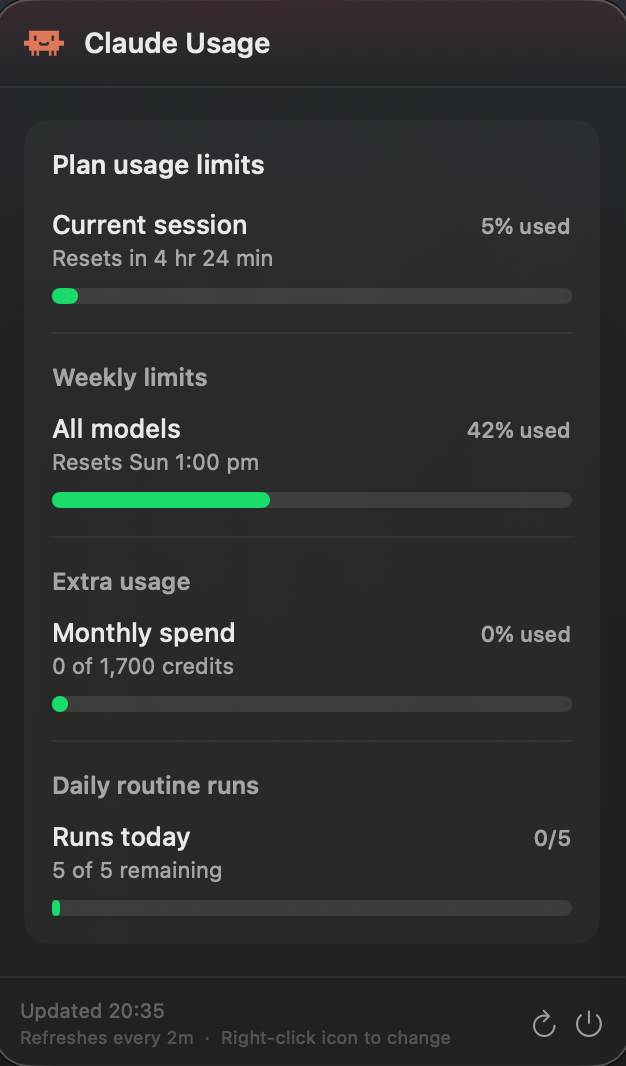
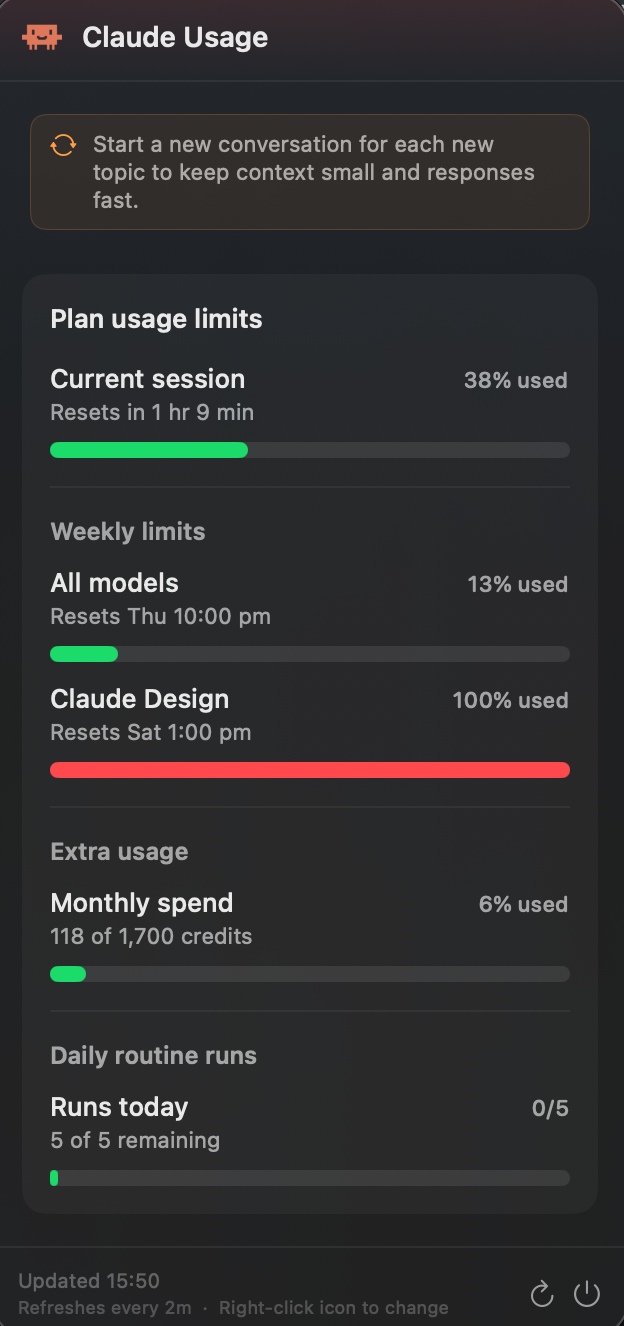
feat: add Claude Design weekly usage bar (v2.2.0)
- Parse seven_day_omelette API bucket as Claude Design usage
- Add claudeDesignPercentage + claudeDesignResetDate to UsageData
- Show Claude Design bar in Weekly limits section when allocation > 0
- Update README and screenshot for v2.2.0

diff --git a/ClaudeUsageMonitor/Services/ClaudeAPIService.swift b/ClaudeUsageMonitor/Services/ClaudeAPIService.swift
@@ -208,15 +208,21 @@ private enum APIResponseParser {
                                   ?? (body["sonnet_only"]           as? [String: Any])
                                   ?? (body["seven_day_sonnet_only"] as? [String: Any])
 
+        // Claude Design — obfuscated as "omelette" in the API
+        let claudeDesign: [String: Any]? = (body["seven_day_omelette"]  as? [String: Any])
+                                        ?? (body["omelette_promotional"] as? [String: Any])
+
         let tierRaw = body["rate_limit_tier"] as? String ?? ""
 
-        let sessionPct  = utilization(fiveHour)
-        let weeklyPct   = utilization(sevenDay)
-        let sonnetPct   = utilization(sonnet)
+        let sessionPct        = utilization(fiveHour)
+        let weeklyPct         = utilization(sevenDay)
+        let sonnetPct         = utilization(sonnet)
+        let claudeDesignPct   = utilization(claudeDesign)
 
-        let resetDate       = isoDate(fiveHour?["resets_at"])
-        let weeklyResetDate = isoDate(sevenDay?["resets_at"])
-        let sonnetResetDate = isoDate(sonnet?["resets_at"])
+        let resetDate              = isoDate(fiveHour?["resets_at"])
+        let weeklyResetDate        = isoDate(sevenDay?["resets_at"])
+        let sonnetResetDate        = isoDate(sonnet?["resets_at"])
+        let claudeDesignResetDate  = isoDate(claudeDesign?["resets_at"])
 
         // Synthesise used/limit from percentage for backward-compat with UI (shows "42/100")
         let sessionUsed  = Int((sessionPct * 100).rounded())
@@ -244,8 +250,10 @@ private enum APIResponseParser {
         data.sessionLimit     = sessionLimit
         data.weeklyResetDate  = weeklyResetDate
         data.weeklyResetText  = weeklyResetText
-        data.sonnetPercentage = sonnetPct
-        data.sonnetResetDate  = sonnetResetDate
+        data.sonnetPercentage        = sonnetPct
+        data.sonnetResetDate         = sonnetResetDate
+        data.claudeDesignPercentage  = claudeDesignPct
+        data.claudeDesignResetDate   = claudeDesignResetDate
 
         // Extra usage — only when is_enabled == true
         if extraUsage?["is_enabled"] as? Bool == true ||

diff --git a/ClaudeUsageMonitor/Models/UsageData.swift b/ClaudeUsageMonitor/Models/UsageData.swift
@@ -13,6 +13,8 @@ struct UsageData {
     var extraUsageLimit: Double = 0  // € monthly spend limit for extra usage
     var sonnetPercentage: Double = 0 // seven_day_sonnet utilization (0–1), Max users only
     var sonnetResetDate: Date? = nil // seven_day_sonnet.resets_at
+    var claudeDesignPercentage: Double = 0 // seven_day_claude_design utilization (0–1)
+    var claudeDesignResetDate: Date? = nil // seven_day_claude_design.resets_at
     var routineRunsUsed:  Int = 0   // daily routine runs used (/v1/code/routines/run-budget)
     var routineRunsLimit: Int = 0   // daily routine runs limit (plan-specific: Pro=5, Max=15, Team/Enterprise=25)
     var rateLimitStatus: String
@@ -48,6 +50,8 @@ struct UsageData {
 
     var hasSonnetData: Bool { sonnetPercentage > 0 }
 
+    var hasClaudeDesignData: Bool { claudeDesignPercentage > 0 }
+
     var hasRoutineData: Bool { routineRunsLimit > 0 }
 
     var routineRunsPercentage: Double {
@@ -59,6 +63,13 @@ struct UsageData {
 
     var sonnetResetLabel: String? {
         guard let date = sonnetResetDate else { return nil }
+        let f = DateFormatter()
+        f.dateFormat = "EEE h:mm a"
+        return "Resets \(f.string(from: date))"
+    }
+
+    var claudeDesignResetLabel: String? {
+        guard let date = claudeDesignResetDate else { return nil }
         let f = DateFormatter()
         f.dateFormat = "EEE h:mm a"
         return "Resets \(f.string(from: date))"

diff --git a/ClaudeUsageMonitor/Views/ContentView.swift b/ClaudeUsageMonitor/Views/ContentView.swift
@@ -251,6 +251,16 @@ struct ContentView: View {
                                     progress: data.sonnetPercentage
                                 )
                             }
+
+                            if data.hasClaudeDesignData {
+                                usageBarRow(
+                                    title: "Claude Design",
+                                    resetLabel: data.claudeDesignResetLabel,
+                                    used: Int((data.claudeDesignPercentage * 100).rounded()),
+                                    limit: 100,
+                                    progress: data.claudeDesignPercentage
+                                )
+                            }
                         }
 
                         if data.hasExtraUsage {

diff --git a/README.md b/README.md
@@ -1,4 +1,4 @@
-# ClaudeUsageMonitor · v2.1.0
+# ClaudeUsageMonitor · v2.2.0
 
 A native macOS menu-bar app that tracks your [Claude.ai](https://claude.ai) usage in real time — no API key needed.
 
@@ -7,6 +7,9 @@ A native macOS menu-bar app that tracks your [Claude.ai](https://claude.ai) usag
 ---
 
 ## Changelog
+
+### v2.2.0
+- **Claude Design usage bar** — new weekly progress bar for Claude Design usage, shown automatically when your plan has Claude Design allocation; tracks the `seven_day_omelette` bucket from the API
 
 ### v2.1.0
 - **Daily routine runs** — new progress bar tracking Claude Code Routine run budget per day (Pro: 5/day, Max: 15/day, Team/Enterprise: 25/day); shown automatically when your plan includes Routines
@@ -35,7 +38,7 @@ A native macOS menu-bar app that tracks your [Claude.ai](https://claude.ai) usag
 - **Menu-bar only** — no Dock icon, stays out of your way
 - **Burn rate display** — menu bar shows estimated time left (`~45min left | 42%`) based on actual usage pace; falls back to percentage when idle
 - **Colour-coded icon** — green → orange → red as usage climbs
-- **Three-bar dashboard** — separate horizontal bars for Current session, Weekly limits (all models), and Sonnet-specific usage (Max plan)
+- **Multi-bar dashboard** — separate horizontal bars for Current session, Weekly limits (all models), Sonnet-specific usage (Max plan), and Claude Design usage
 - **Daily routine runs** — tracks Claude Code Routine run budget per day (Pro: 5, Max: 15, Team/Enterprise: 25), shown automatically when your plan includes Routines
 - **Extra usage tracking** — displays monthly credit spend progress when Extra Usage is enabled on your account
 - **Direct API** — reads data straight from Claude's internal API; no DOM scraping, no JS injection
@@ -112,6 +115,7 @@ The left value shows **estimated time left** (burn rate) when active, or **Curre
   - **Current session** — rate-limit window usage with "Resets in X hr Y min" countdown
   - **Weekly limits / All models** — billing-period usage with reset day and time (e.g. "Resets Fri 10:00 AM")
   - **Sonnet** — Sonnet-specific weekly usage (Max plan only)
+  - **Claude Design** — weekly Claude Design usage bar, shown automatically when your plan includes a Claude Design allocation
   - **Extra usage** — monthly credit spend bar (X of Y credits), shown only when Extra Usage is enabled on your account
   - **Daily routine runs** — run budget bar for Claude Code Routines (shown when your plan includes Routines)
 - **Refresh button** (↻) — force an immediate refresh
@@ -163,7 +167,7 @@ swift scripts/make_icon.swift
 The app calls Claude's internal REST API directly:
 
 - `GET /api/organizations` — resolves your organisation ID (cached after first call)
-- `GET /api/organizations/{org_id}/usage` — returns utilization percentages and reset timestamps for all windows (`five_hour`, `seven_day`, `seven_day_sonnet`, `extra_usage`)
+- `GET /api/organizations/{org_id}/usage` — returns utilization percentages and reset timestamps for all windows (`five_hour`, `seven_day`, `seven_day_sonnet`, `seven_day_omelette`, `extra_usage`)
 - `GET /v1/code/routines/run-budget` — returns daily routine run budget (`used` / `limit`); called automatically after each usage refresh
 
 Auth is via the `sessionKey` cookie, extracted from the login WKWebView after OAuth and stored in `UserDefaults`. All subsequent requests are plain `URLSession` calls — no WKWebView or JS injection at runtime.
@@ -184,6 +188,7 @@ On first launch a browser window opens so you can log in to Claude.ai. The `sess
 | Sonnet bar not visible | Only shown on Max plan accounts |
 | Extra usage bar not visible | Only shown when Extra Usage is enabled on your Claude account |
 | Routine runs bar not visible | Only shown when your plan includes Claude Code Routines (Pro, Max, Team, Enterprise) |
+| Claude Design bar not visible | Only shown when your plan includes a Claude Design allocation and usage is above 0% |
 | Icon missing from menu bar | Quit via the popover's Quit button and re-open the app |
 | App won't launch after macOS update | Rebuild from source with the updated SDK |
 
